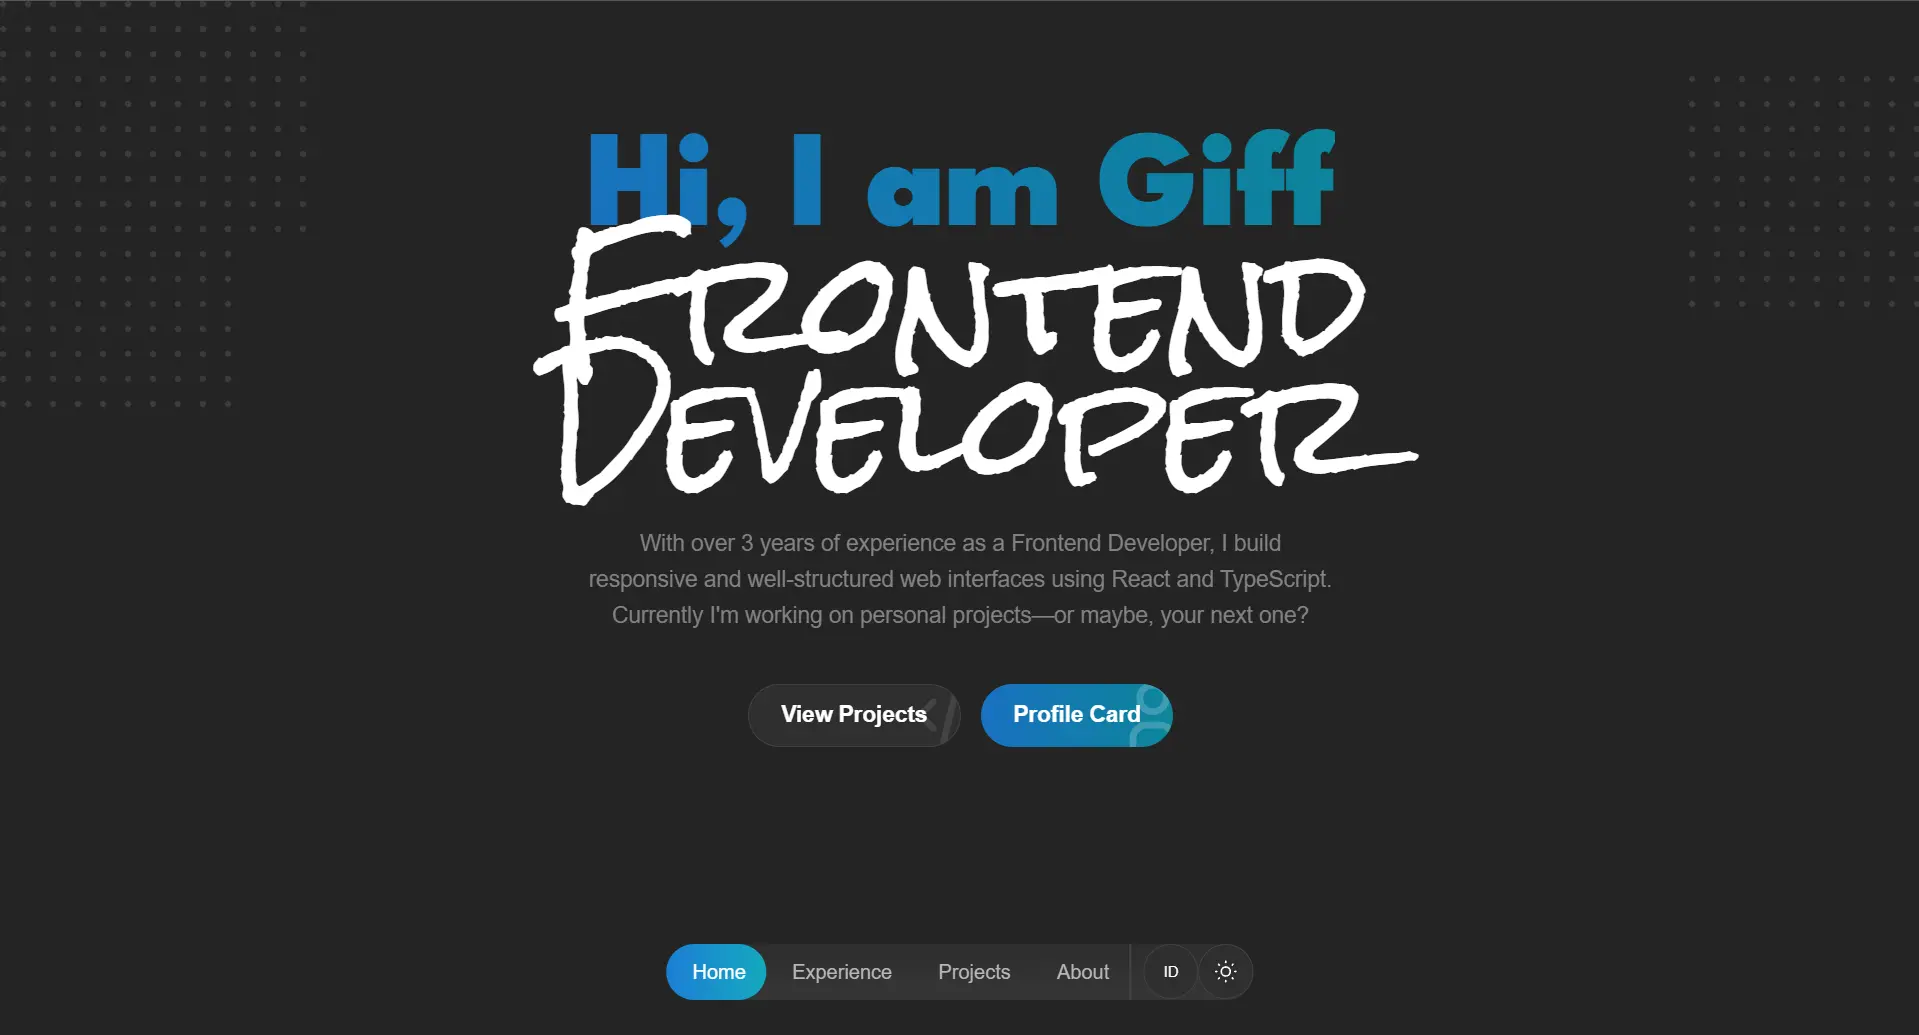
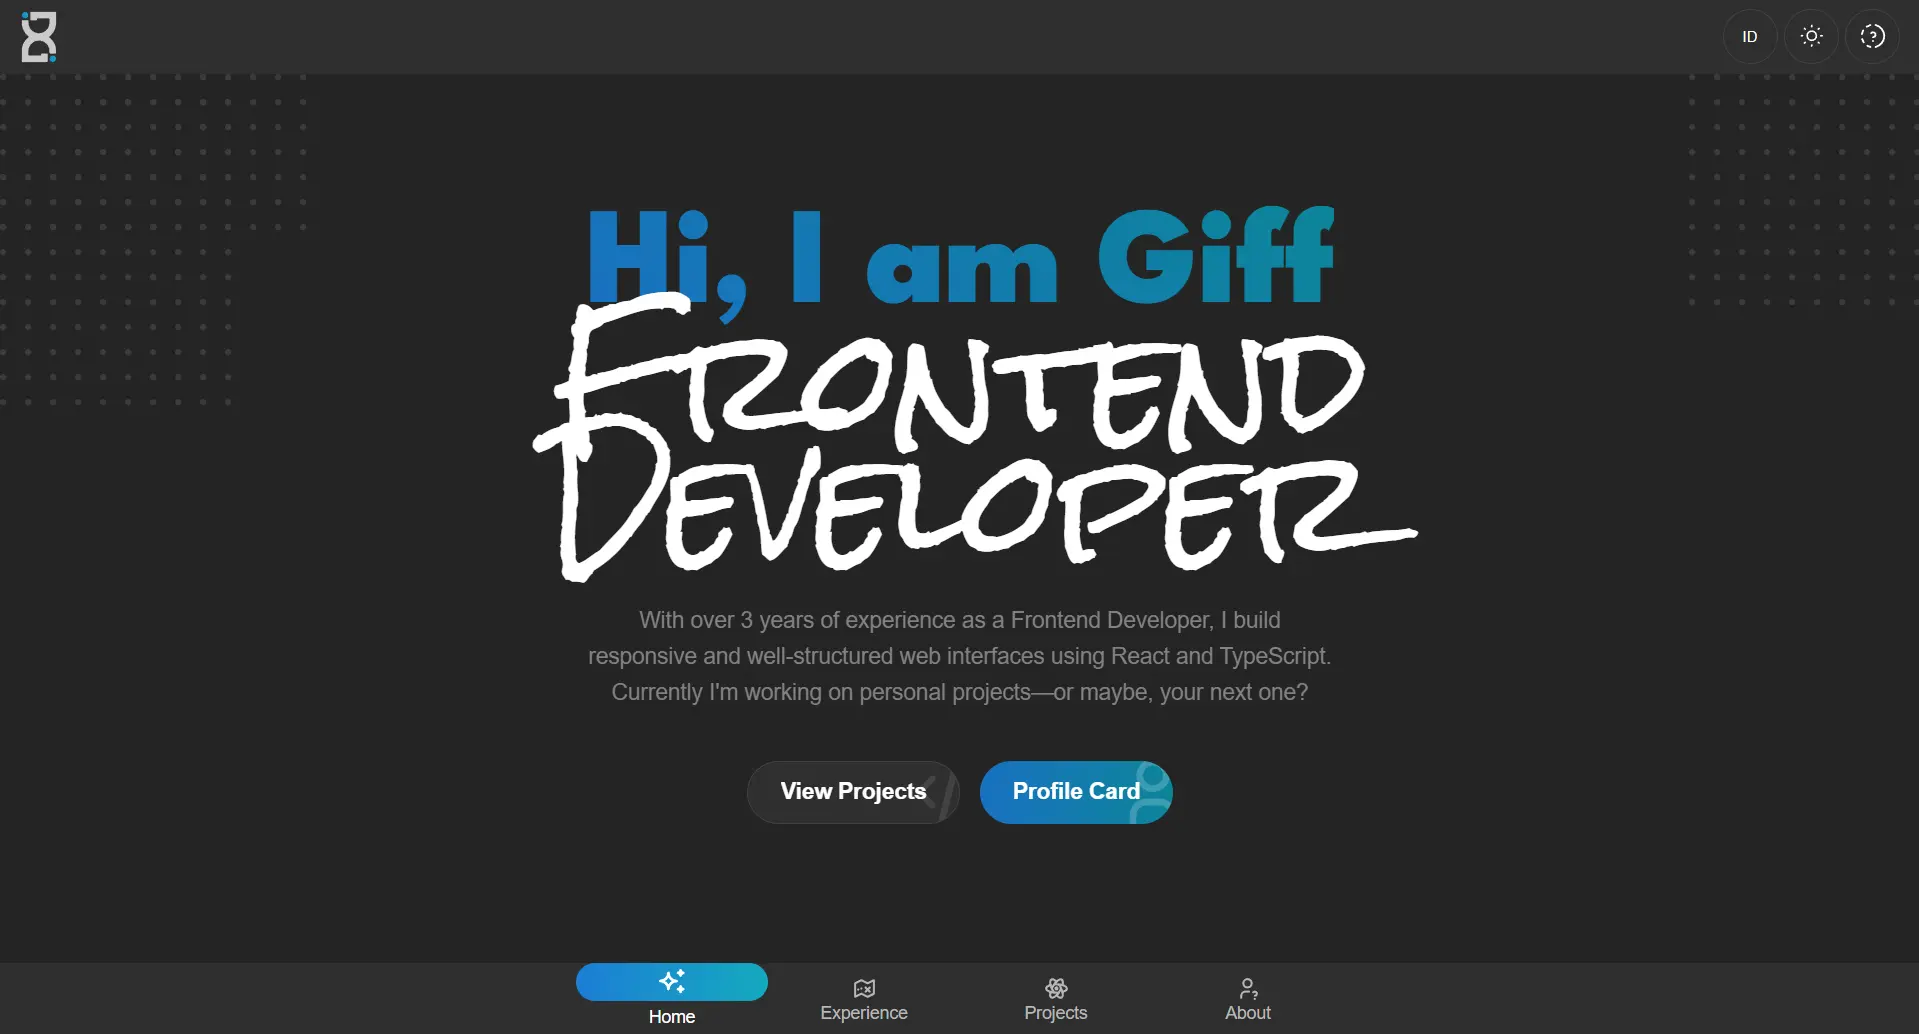
feat: add Tooltip and finalize content

diff --git a/src/components/Tooltip/Tooltip.tsx b/src/components/Tooltip/Tooltip.tsx
@@ -1,0 +1,51 @@
+import { useLanguage } from "@/context/LanguageContext";
+import { ActionIcon, List, Popover, Stack, Text } from "@mantine/core";
+import {
+    IconDeviceImac,
+    IconDeviceMobile,
+    IconHandMove,
+    IconProgressHelp,
+} from "@tabler/icons-react";
+import classes from "./Tooltip.module.css";
+
+export default function Tooltip() {
+    const { t } = useLanguage();
+    return (
+        <Popover
+            width={200}
+            position="bottom-end"
+            offset={15}
+            withOverlay
+            overlayProps={{ zIndex: 10000, blur: "8px" }}
+            zIndex={10001}
+        >
+            <Popover.Target>
+                <ActionIcon
+                    variant="default"
+                    size="xl"
+                    aria-label="Toggle Language"
+                    radius={"xl"}
+                >
+                    <IconProgressHelp stroke={1.5} />
+                </ActionIcon>
+            </Popover.Target>
+            <Popover.Dropdown>
+                <Stack align="center" justify="center">
+                    <IconHandMove size={50} className={classes.icon}/>
+                    <Text size="xs" c={"dimmed"}>
+                        {t.tooltip.instruction}
+                    </Text>
+                    <List fz={"sm"} spacing={"xs"}>
+                        <List.Item icon={<IconDeviceMobile />}>
+                            {t.tooltip.mobile}
+                        </List.Item>
+                        <List.Item icon={<IconDeviceImac />}>{t.tooltip.desktop}</List.Item>
+                    </List>
+                    <Text size="xs" c={"dimmed"}>
+                        {t.tooltip.all}
+                    </Text>
+                </Stack>
+            </Popover.Dropdown>
+        </Popover>
+    );
+}

diff --git a/src/components/Content/AbouteMe/AboutMe.tsx b/src/components/Content/AbouteMe/AboutMe.tsx
@@ -15,7 +15,7 @@ import {
 } from "@mantine/core";
 import { IconQuoteFilled, IconSend2 } from "@tabler/icons-react";
 import { ContactCard } from "@/components/ContactCard/ContactCard";
-import { useDisclosure } from "@mantine/hooks";
+import { useDisclosure, useMediaQuery } from "@mantine/hooks";
 import TextPressure from "../../ReactBits/TextPressure/TextPressure";
 import Waves from "@/components/ReactBits/Wave/Waves";
 import { League_Spartan } from "next/font/google";
@@ -28,6 +28,7 @@ const leagueSpartan = League_Spartan({
 export const AboutMe = () => {
     const { t } = useLanguage();
     const { colorScheme } = useMantineColorScheme();
+    const isNotPc = useMediaQuery("(max-width: 64em)");
     const [opened, { open, close }] = useDisclosure(false);
 
     return (
@@ -59,7 +60,7 @@ export const AboutMe = () => {
                             <IconSend2 />
                         </Group>
                     </div>
-                    <Stack p={"md"} className={classes.hello + " noSwipe"}>
+                    <Stack p={"md"} className={isNotPc ? classes.hello + " noSwipe" : classes.hello}>
                         <Waves
                             lineColor={colorScheme === "dark" ? "black" : "lightgray"}
                             waveSpeedX={0.02}

diff --git a/src/components/Content/Experience/Experience.tsx b/src/components/Content/Experience/Experience.tsx
@@ -46,7 +46,7 @@ export default function ExperienceScrollWithDots() {
                                 </Flex>
                             </Card.Section>
                             <Card.Section className={classes.responsibilitySection}>
-                                <Accordion variant="filled" className={classes.responsibilitySection}>
+                                <Accordion variant="filled" className={classes.responsibilitySection} defaultValue={ index === 0 ? "detail" : null}>
                                     <Accordion.Item value="detail">
                                         <Accordion.Control className={classes.responsibilitySection}>
                                             <Text className={classes.role}>{item.role}</Text>

diff --git a/src/app/page.tsx b/src/app/page.tsx
@@ -6,6 +6,7 @@ import LanguageSelector from "@/components/LanguageSelector/LanguageSelector";
 import { ThemeToggle } from "@/components/ThemeToggle/ThemeToggle";
 import { Logo } from "@/components/Loader/Logo";
 import { useSwipeHandler } from "@/hooks/useSwipeHandler";
+import Tooltip from "@/components/Tooltip/Tooltip";
 
 export default function Home() {
   const { activeTab, setActiveTab } = useSwipeHandler();
@@ -25,6 +26,7 @@ export default function Home() {
             <Group gap={5} mt={-8}>
               <LanguageSelector />
               <ThemeToggle />
+              <Tooltip />
             </Group>
           </Group>
         </AppShell.Header>

diff --git a/src/i18n/id.ts b/src/i18n/id.ts
@@ -95,6 +95,13 @@ const id = {
         cv: "Lihat CV",
         email: "Ceritakan Idemu",
     },
+
+    tooltip: {
+        instruction: "Untuk berpindah antar tab",
+        mobile: "Swipe kiri atau kanan",
+        desktop: "Scroll horizontal (touchpad) atau Shift + mouse wheel",
+        all: "atau klik tab di bawah",
+    }
 };
 
 export default id;

diff --git a/src/i18n/en.ts b/src/i18n/en.ts
@@ -95,6 +95,13 @@ const en = {
         cv: "View CV",
         email: "Tell Me Your Idea",
     },
+
+    tooltip: {
+        instruction: "To navigate between tabs",
+        mobile: "Swipe left or right",
+        desktop: "Horizontal scroll (touchpad) or Shift + mouse wheel",
+        all: "or click the tabs below",
+    }
 };
 
 export default en;

diff --git a/src/components/Tooltip/Tooltip.module.css b/src/components/Tooltip/Tooltip.module.css
@@ -1,0 +1,16 @@
+.icon {
+  animation: swiping 2s ease-in-out infinite;
+  transition: all 200ms ease;
+}
+
+@keyframes swiping {
+  0% {
+    transform: rotate(-20deg) translateX(-50%);
+  }
+  50% {
+    transform: rotate(20deg) translateX(50%);
+  }
+  100% {
+    transform: rotate(-20deg) translateX(-50%);
+  }
+}
